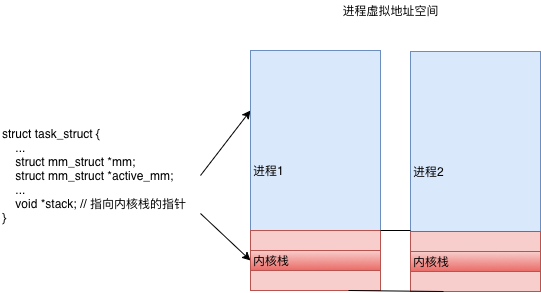
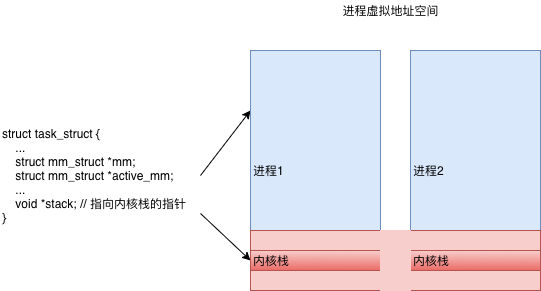
[fix]add doc

diff --git a/_posts/Technology/Linux/2019-05-01-linux_kernel_basic.md b/_posts/Technology/Linux/2019-05-01-linux_kernel_basic.md
@@ -57,7 +57,13 @@ keywords: linux 内核
 ||完全由内核实现|由内核态和用户态合作完成<br>相当一部分逻辑由glibc库函数pthread_create来做|
 |数据结构||内核态struct task_struct <br>用户态 struct pthread|
 
-## 虚拟地址空间：用户空间和内核空间
+[线程创建的成本](http://qiankunli.github.io/2014/10/09/Threads.html)
+
+[线程切换的成本](http://qiankunli.github.io/2018/01/07/hardware_software.html)
+
+## 规划虚拟地址空间：用户空间和内核空间
+
+对于内存的访问，用户态的进程使用虚拟地址，内核的也基本都是使用虚拟地址
 
 ### 进程“独占”虚拟内存及虚拟内存划分
 
@@ -80,6 +86,15 @@ keywords: linux 内核
 
 左右两侧均表示虚拟地址空间，左侧以描述内核空间为主，右侧以描述用户空间为主。
 
+|内存区域|日常看到的|
+|---|---|
+|Text Segment<br>Data Segment<br>BSS Segment|Text Segment 是存放二进制可执行代码<br>Data Segment 存放静态常量<br>BSS Segment 存放未初始化的静态变量<br>正是ELF二进制执行文件的三个部分|
+|堆|malloc|
+|Memory Mapping Segment|用来把文件映射进内存用的<br>动态链接库/so文件就是加载到这里|
+|栈|函数栈|
+
+在内核里面也会有内核的代码，同样有 Text Segment、Data Segment 和 BSS Segment，别忘了内核代码也是 ELF 格式的。
+
 ### 在代码上的体现
 
     // 持有task_struct 便可以访问进程在内存中的所有数据
@@ -94,6 +109,8 @@ keywords: linux 内核
 内核使用内存描述符mm_struct来表示进程的地址空间，该描述符表示着进程所有地址空间的信息
 
 ![](/public/upload/linux/linux_virtual_address.png)
+
+在用户态，进程觉着整个空间是它独占的，没有其他进程存在。但是到了内核里面，无论是从哪个进程进来的，看到的都是同一个内核空间，看到的都是同一个进程列表。虽然内核栈是各用个的，但是如果想知道的话，还是能够知道每个进程的内核栈在哪里的。所以，**如果要访问一些公共的数据结构，需要进行锁保护**。
 
 ![](/public/upload/linux/mm_struct.png)
 
@@ -154,6 +171,8 @@ keywords: linux 内核
 |---|---|---|
 |栈地址|进程用户栈|在进程的堆里面创建的|
 |指令指针初始位置|main函数|为线程指定的函数|
+
+对应着jvm 一个线程一个栈
 
 ## 中断栈
 

diff --git a/_posts/Technology/Java/2014-10-09-Threads.md b/_posts/Technology/Java/2014-10-09-Threads.md
@@ -248,6 +248,8 @@ native 的start 指令做了很多事情
 
 如果没有这些微观细节，人就很难直观上 感受 线程池的好处。 [线程切换的成本](http://qiankunli.github.io/2018/01/07/hardware_software.html)
 
+2019.5.27补充：[Linux内核基础知识](http://blog.zhifeinan.top/2019/05/01/linux_kernel_basic.html)
+
 ### Java/Jvm 内部工作线程
 
 2018.7.2 补充
